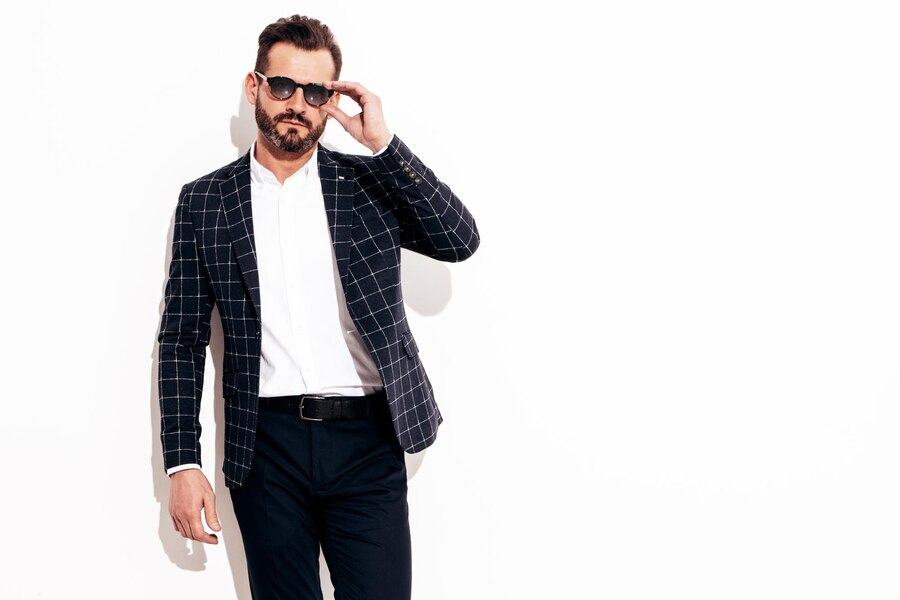
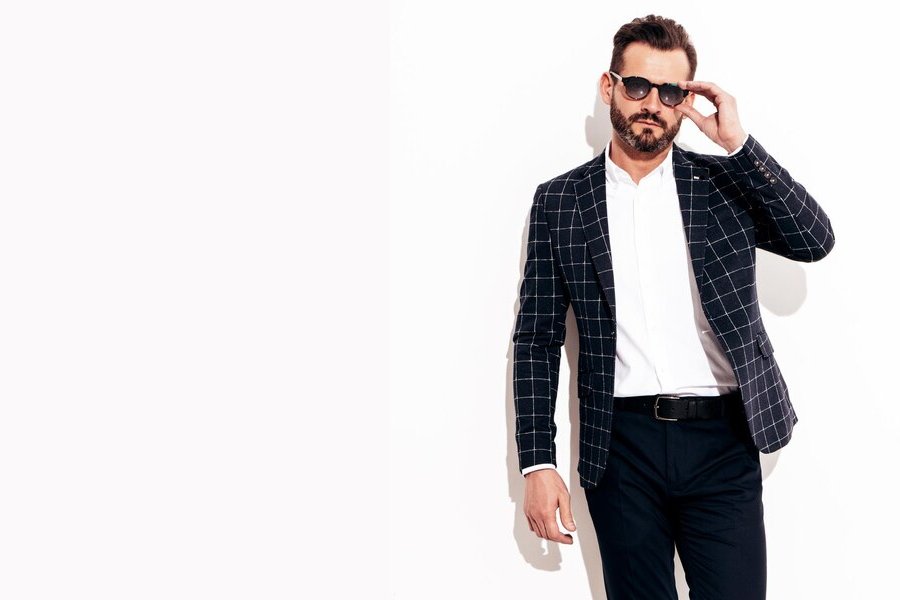
SHOPCO: index.html v3.0

diff --git a/src/scss/layout/_lifestyle.scss b/src/scss/layout/_lifestyle.scss
@@ -1,0 +1,106 @@
+@use "../abstracts" as *;
+
+.lifestyle {
+  background-color: $grey-color;
+  border-radius: $radius-pill;
+  padding: 70px 64px;
+  margin: 80px 0;
+
+  &__title {
+    font-family: $font-family-title;
+    font-size: 48px;
+    font-weight: 700;
+    text-align: center;
+    color: $black-color;
+    margin-top: 0;
+    margin-bottom: 64px;
+  }
+
+  &__grid {
+    display: grid;
+    grid-template-columns: repeat(10, 1fr);
+    gap: 20px;
+  }
+
+  &__card {
+    position: relative;
+    border-radius: $radius-lg;
+    overflow: hidden;
+    background-color: $white-color;
+    max-height: 289px;
+
+    &--casual {
+      grid-column: span 4;
+
+      .lifestyle__image {
+        transform: scale(2.2);
+        transform-origin: 58% 35%;
+
+        &:hover {
+          transform: scale(2.25);
+        }
+      }
+    }
+
+    &--formal {
+      grid-column: span 6;
+
+      .lifestyle__image {
+        transform: scale(1.8);
+        transform-origin: 80% 58%;
+        object-position: center top;
+
+        &:hover {
+          transform: scale(1.85);
+        }
+      }
+    }
+
+    &--party {
+      grid-column: span 6;
+
+      .lifestyle__image {
+        transform: scale(1.1);
+        object-position: right center;
+        margin-left: 15%;
+        transform-origin: 90% 58%;
+
+        &:hover {
+          transform: scale(1.15);
+        }
+      }
+    }
+
+    &--gym {
+      grid-column: span 4;
+
+
+      .lifestyle__image {
+        transform: scale(1);
+        object-position: center 40%;
+        margin-left: 20%;
+
+        &:hover {
+          transform: scale(1.05);
+        }
+      }
+    }
+  }
+
+  &__label {
+    position: absolute;
+    top: 24px;
+    left: 36px;
+    font-size: 36px;
+    font-weight: 700;
+    color: $black-color;
+    z-index: 1;
+  }
+
+  &__image {
+    width: 100%;
+    height: 100%;
+    object-fit: cover;
+    transition: transform 0.3s ease;
+  }
+}

diff --git a/src/index.html b/src/index.html
@@ -89,27 +89,25 @@
     </section>
 
     <section class="lifestyle">
-      <h2 class="lifestyle__title">LIFESTYLE</h2>
-      <figure class="lifestyle__items">
-        <a class="lifestyle__item">
-          <img src="assets/images/lifestyles/casual-style.png" alt="Lifestyle image 1" />
-          <p class="lifestyle__text">CASUAL STYLE</p>
+      <h2 class="lifestyle__title">BROWSE BY DRESS STYLE</h2>
+      <div class="lifestyle__grid">
+        <a href="#" class="lifestyle__card lifestyle__card--casual">
+          <span class="lifestyle__label">Casual</span>
+          <img src="assets/images/lifestyles/casual-style.png" alt="Casual Style" class="lifestyle__image" />
         </a>
-        <a class="lifestyle__item">
-          <img src="assets/images/lifestyles/formal-style.png" alt="Lifestyle image 2" />
-          <p class="lifestyle__text">FORMAL STYLE</p>
+        <a href="#" class="lifestyle__card lifestyle__card--formal">
+          <span class="lifestyle__label">Formal</span>
+          <img src="assets/images/lifestyles/formal-style.png" alt="Formal Style" class="lifestyle__image" />
         </a>
-      </figure>
-      <figure class="lifestyle__items">
-        <a class="lifestyle__item">
-          <img src="assets/images/lifestyles/party-style.png" alt="Lifestyle image 3" />
-          <p class="lifestyle__text">PARTY STYLE</p>
+        <a href="#" class="lifestyle__card lifestyle__card--party">
+          <span class="lifestyle__label">Party</span>
+          <img src="assets/images/lifestyles/party-style.png" alt="Party Style" class="lifestyle__image" />
         </a>
-        <a class="lifestyle__item">
-          <img src="assets/images/lifestyles/gym-style.png" alt="Lifestyle image 4" />
-          <p class="lifestyle__text">GYM STYLE</p>
+        <a href="#" class="lifestyle__card lifestyle__card--gym">
+          <span class="lifestyle__label">Gym</span>
+          <img src="assets/images/lifestyles/gym-style.png" alt="Gym Style" class="lifestyle__image" />
         </a>
-      </figure>
+      </div>
     </section>
 
     <section class="feedback">

diff --git a/src/scss/main.scss b/src/scss/main.scss
@@ -22,6 +22,7 @@
 @use "layout/product-grid";
 @use "layout/main-banner";
 @use "layout/brand-logo";
+@use "layout/lifestyle";
 // 4. Components
 @use "components/button";
 @use "components/tabs";